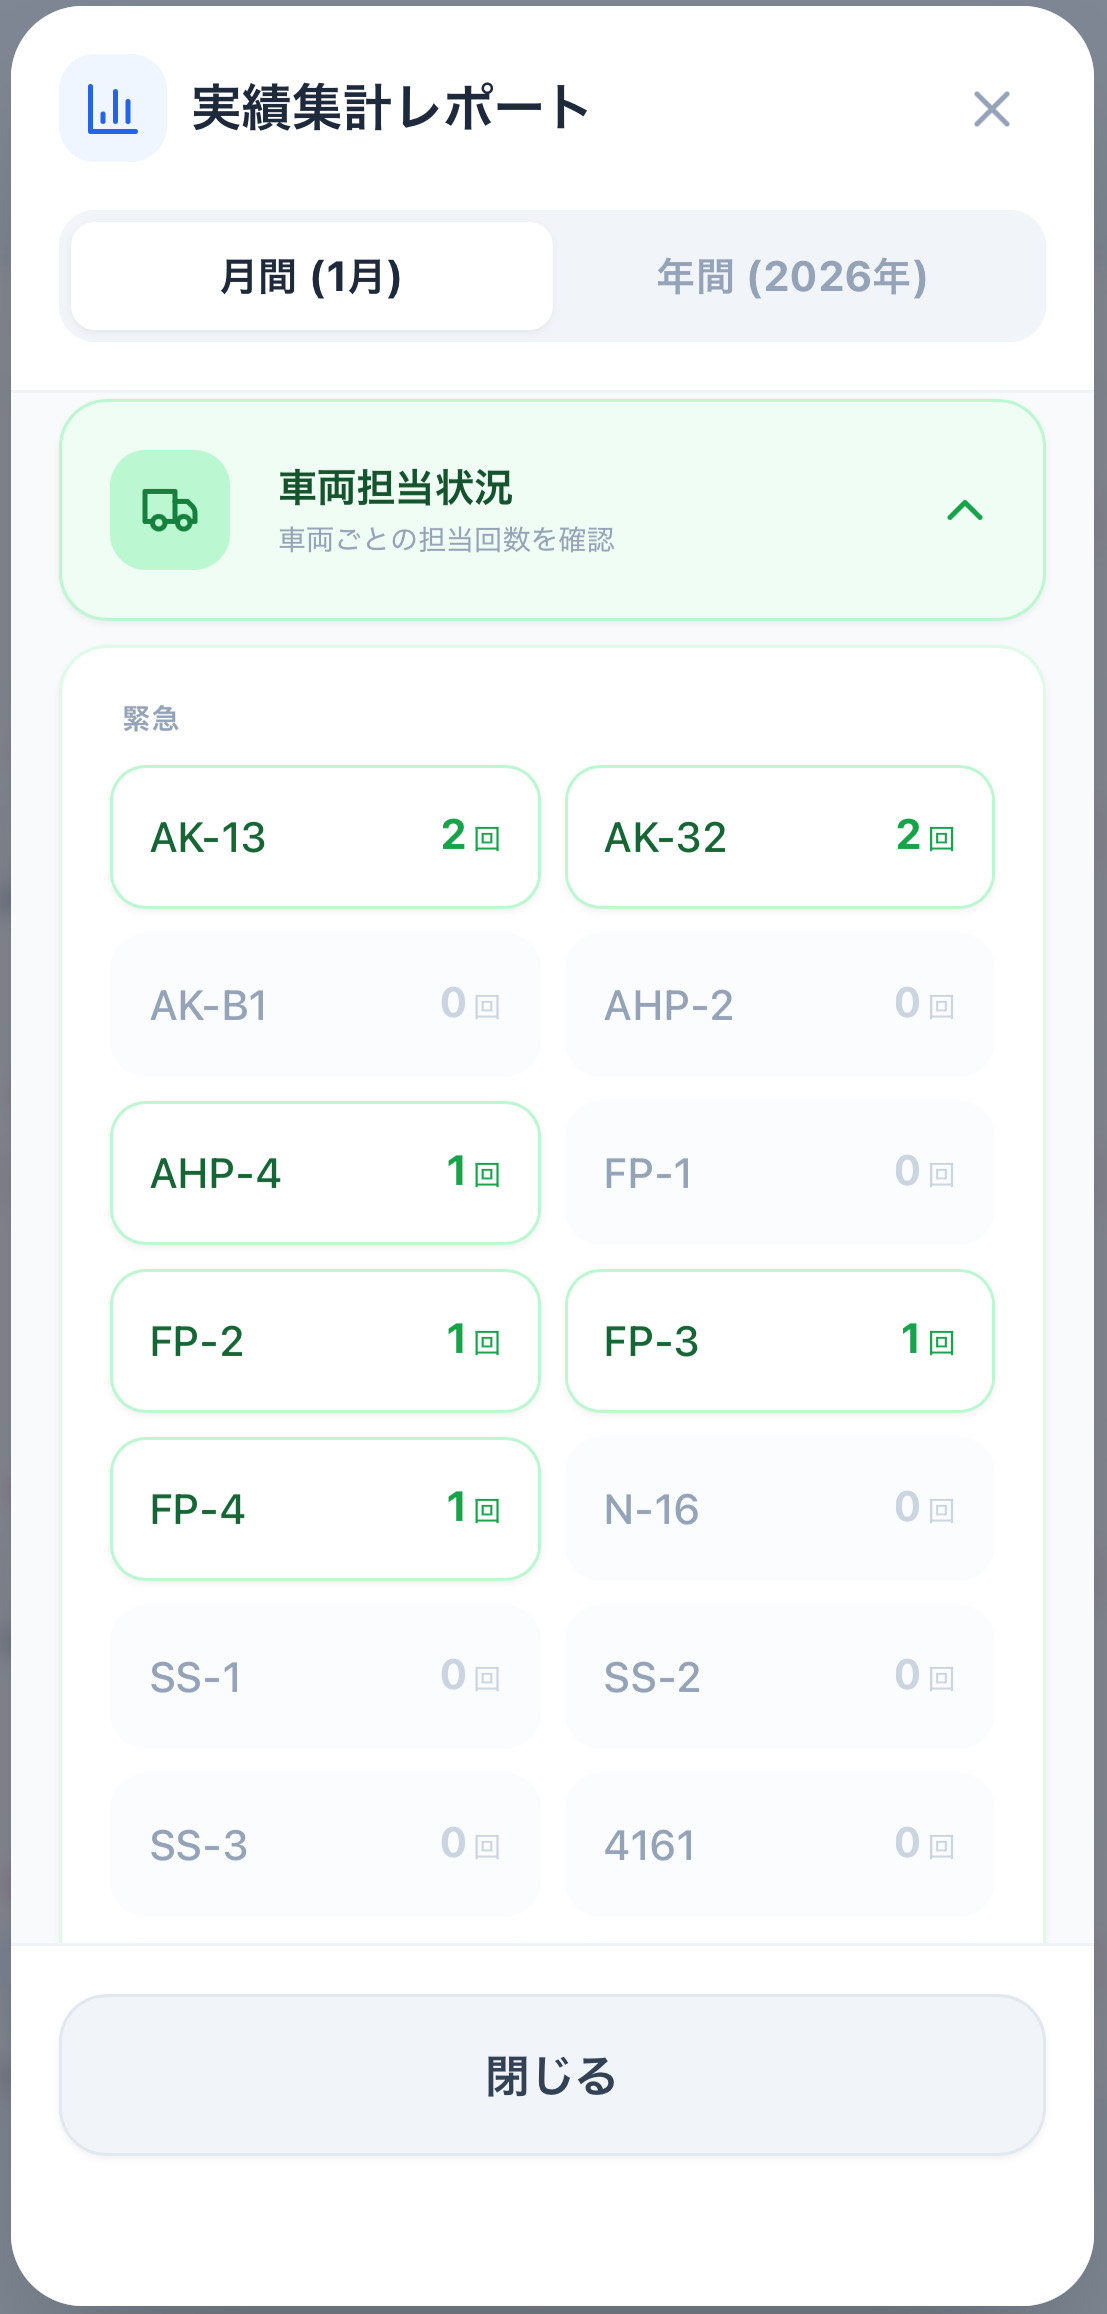
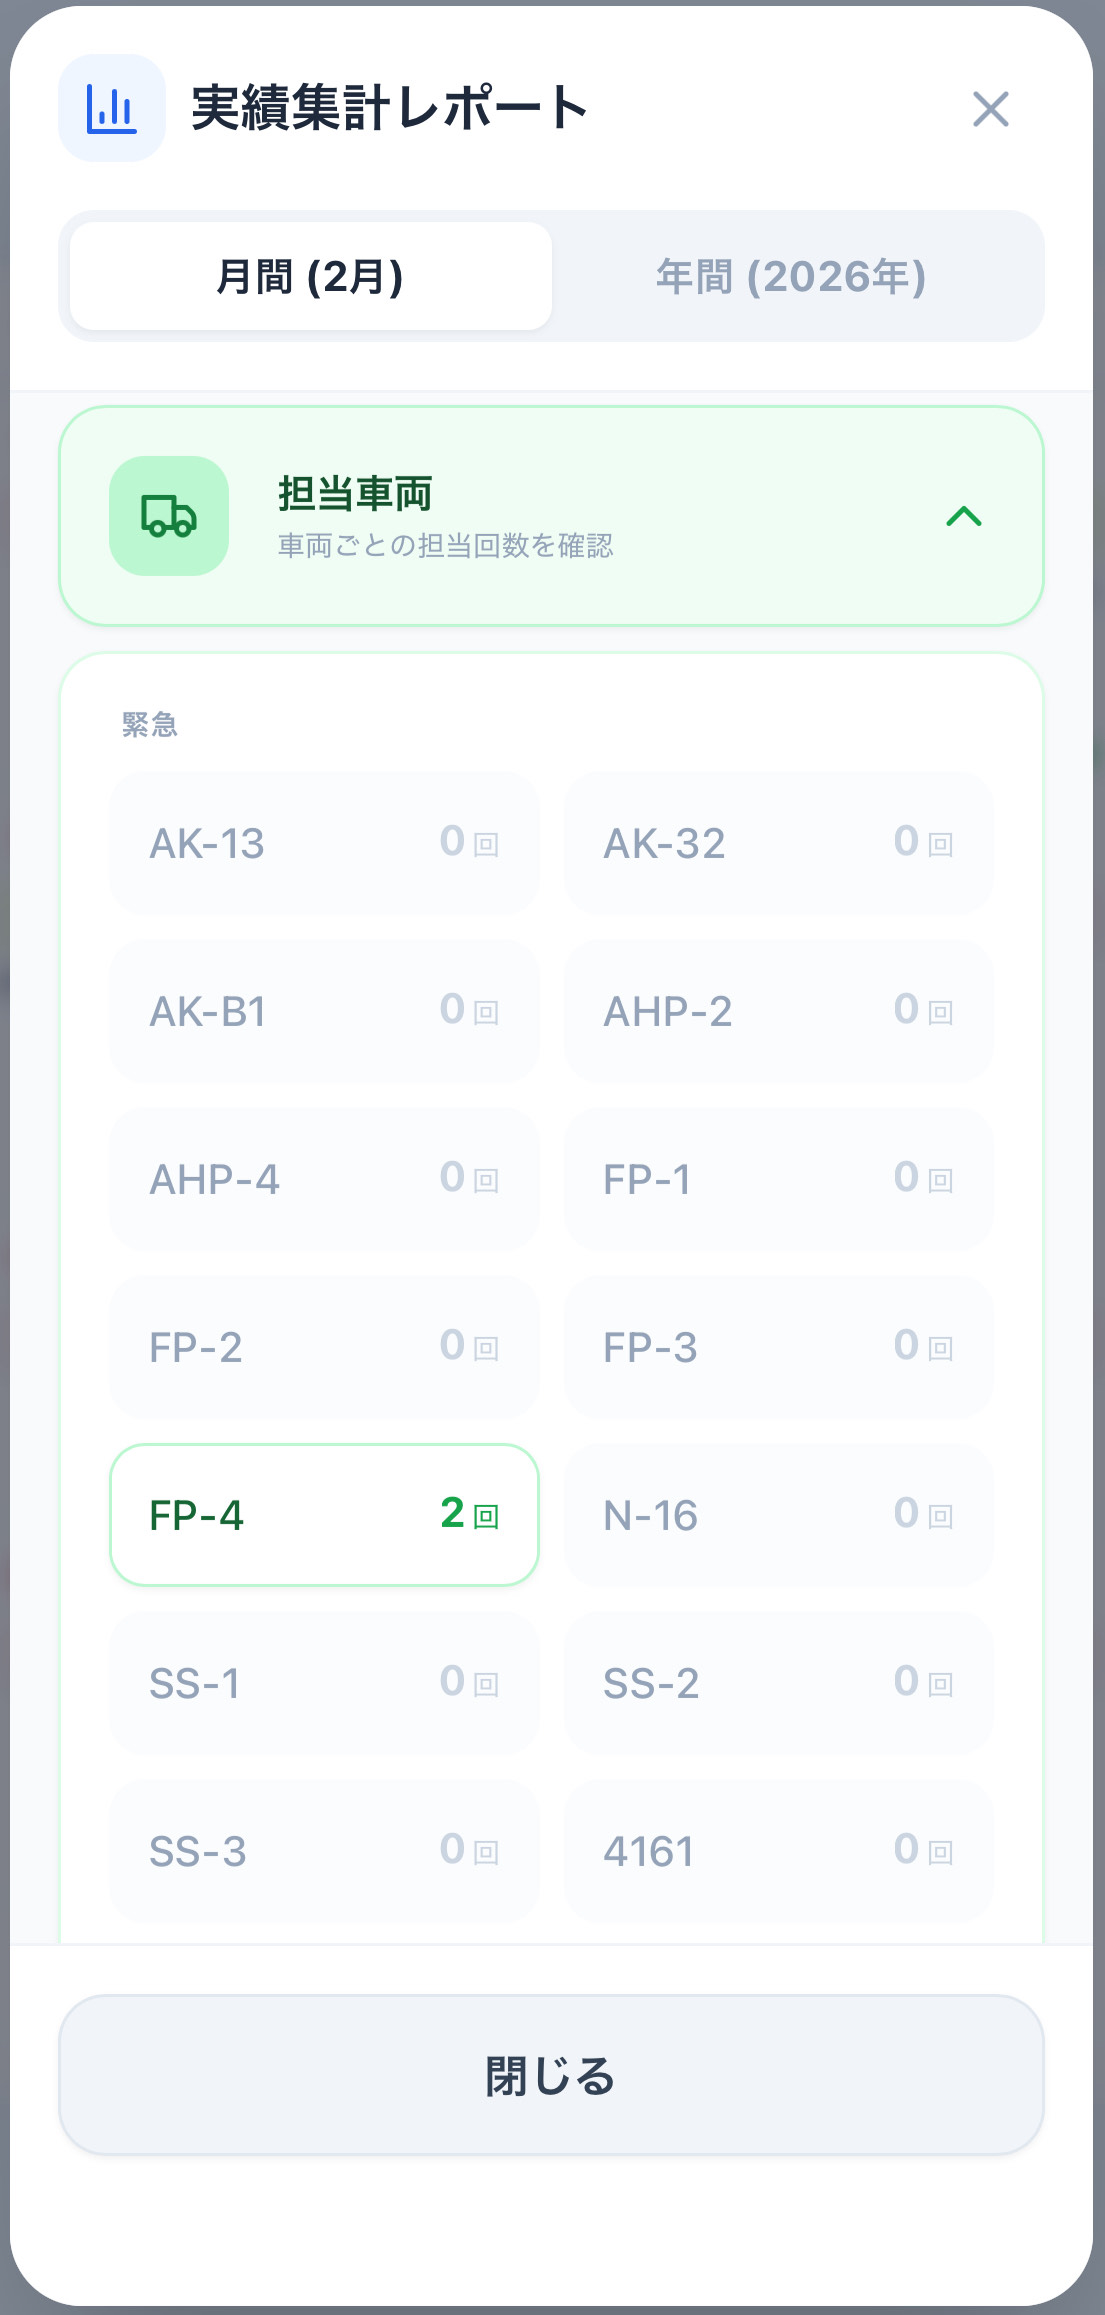
Add files via upload

diff --git a/index.html b/index.html
@@ -434,7 +434,7 @@
  
  <div class="text-content">
  <ul>
- <li><strong>担当車両状況 :</strong> 車両ごとの担当回数を確認できます。</li>
+ <li><strong>担当車両 :</strong> 車両ごとの担当回数を確認できます。</li>
  </ul>
  </div>
  <div class="image-container">
